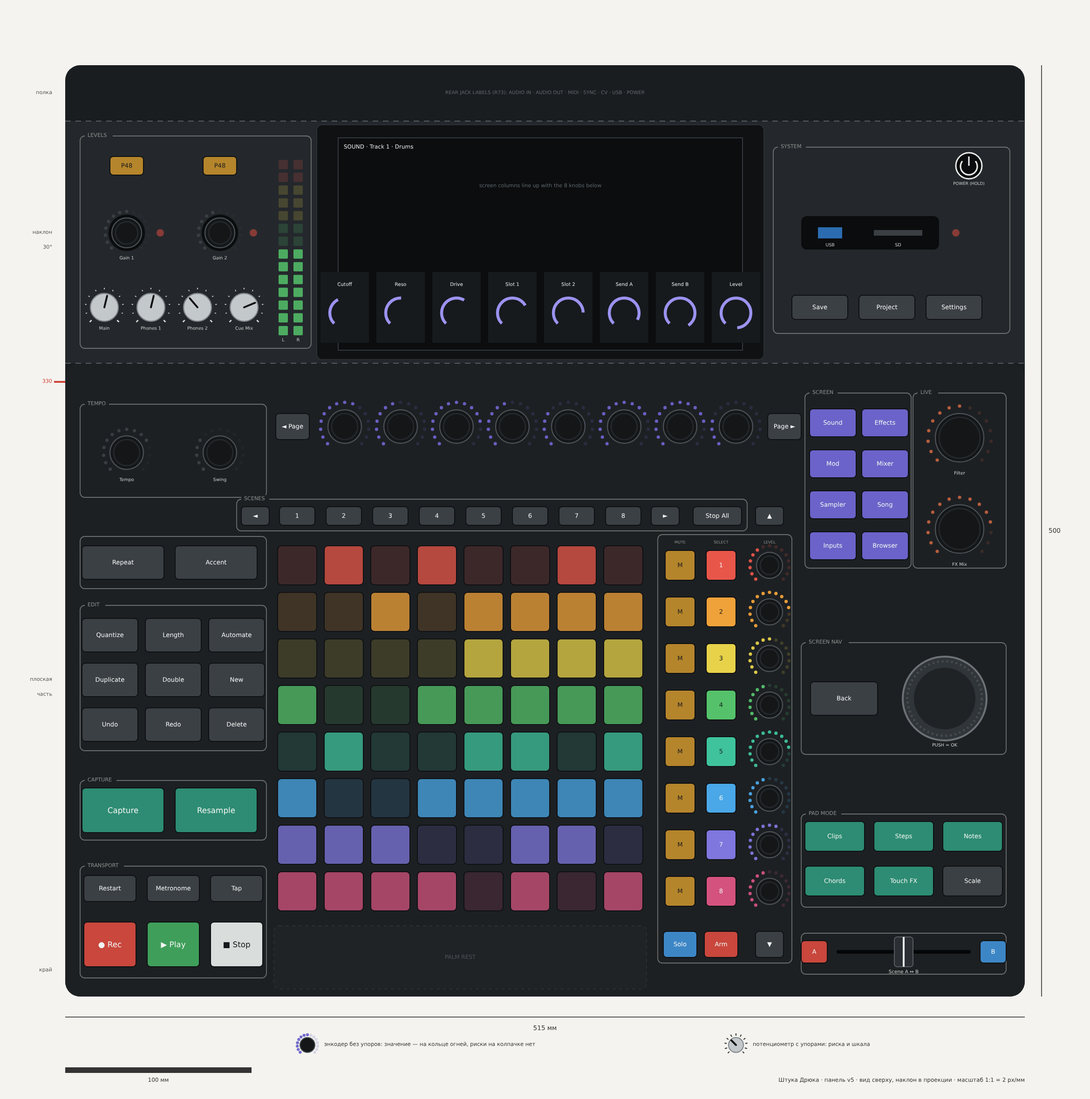
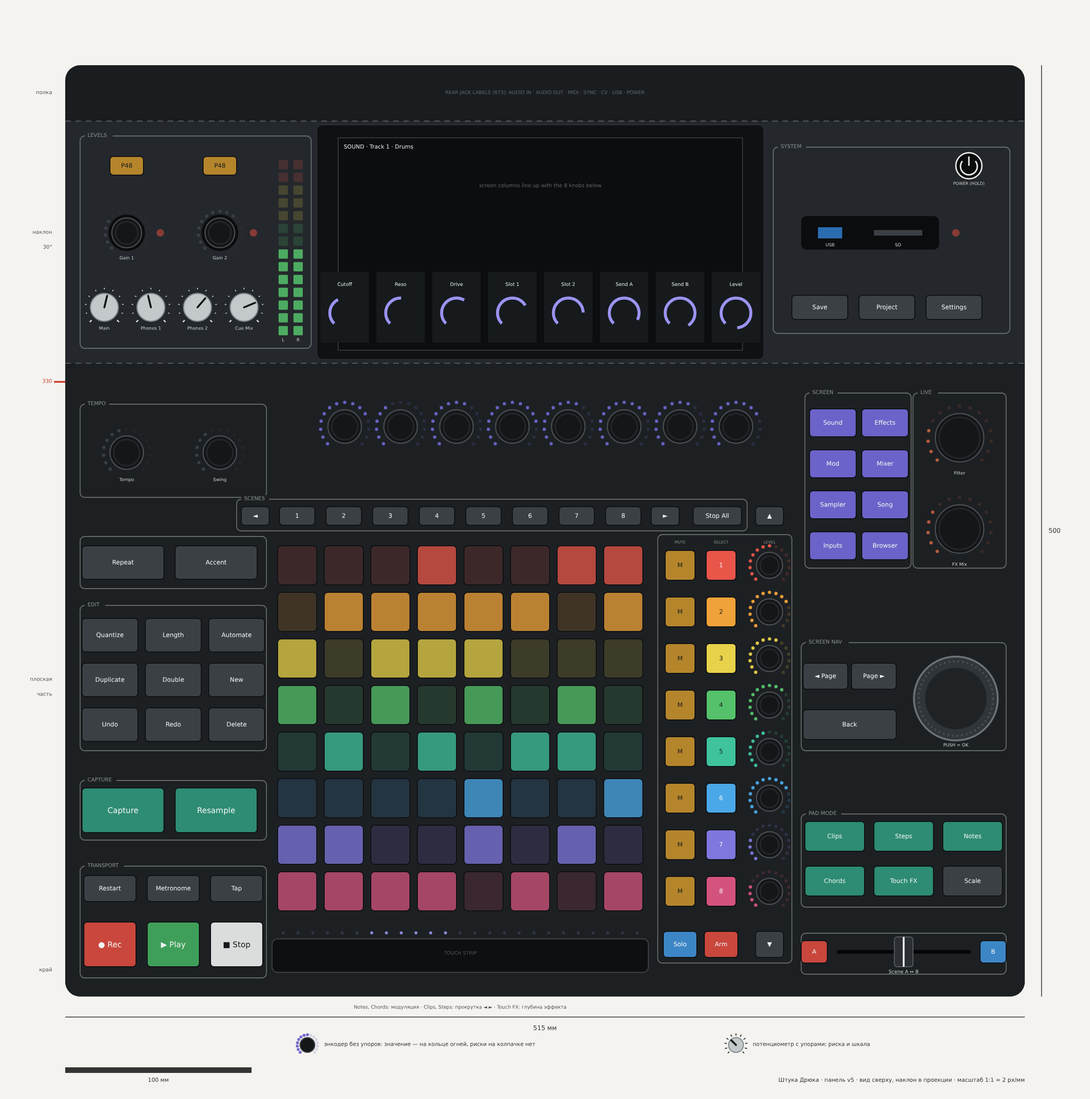
Panel v5: page buttons next to Back, touch strip under pads (R103-R105, P64-P65)
Claude-Session: https://claude.ai/code/session_01NJ9VLrgY2mHKQhwcNUndr6

diff --git a/mockup/layout/draw_v5.py b/mockup/layout/draw_v5.py
@@ -53,7 +53,7 @@ for hx, ht in ((330, "MUTE"), (352, "SELECT"), (378, "LEVEL")): t(X(hx), Y(244),
 frame(395, 12, 505, 34, "")
 frame(395, 48, 505, 98, "PAD MODE")
 frame(397, 230, 454, 324, "SCREEN")
-frame(395, 130, 505, 190, "SCREEN NAV")
+frame(395, 132, 505, 190, "SCREEN NAV")
 frame(455, 230, 505, 324, "LIVE")
 BG = "#24282c"
 frame(8, 348, 132, 462, "LEVELS")
@@ -61,7 +61,13 @@ frame(380, 356, 507, 456, "SYSTEM")
 
 for e in E:
     k, x, y, w, h = e["kind"], e["x"], e["y"], e["w"], e["h"]
-    if k == "zone":
+    if k == "strip":
+        a(f'<rect x="{X(x-w/2):.1f}" y="{Y(y+h/2):.1f}" width="{w*S:.1f}" height="{h*S:.1f}" rx="{3*S}" fill="#0d0f11" stroke="#3a3f44" stroke-width="1.2"/>')
+        for i in range(25):
+            lx = x - w / 2 + 6 + i * (w - 12) / 24
+            a(f'<circle cx="{X(lx):.1f}" cy="{Y(y+h/2+3.2):.1f}" r="{0.8*S:.1f}" fill="#9b93f0" fill-opacity="{0.9 if 6 <= i <= 11 else 0.18}"/>')
+        t(X(x), Y(y + 1), "TOUCH STRIP", 2.6, "#4d5358", weight=500)
+    elif k == "zone":
         a(f'<rect x="{X(x-w/2):.1f}" y="{Y(y+h/2):.1f}" width="{w*S:.1f}" height="{h*S:.1f}" rx="{3*S}" '
           f'fill="#202326" stroke="#2c3034" stroke-dasharray="3 4"/>')
         t(X(x), Y(y), "PALM REST", 3, "#4d5358")
@@ -165,6 +171,7 @@ t(X(-7), Y(170), "плоская", 2.8, "#555", "end"); t(X(-7), Y(162), "час
 t(X(-7), Y(410), "наклон", 2.8, "#555", "end"); t(X(-7), Y(402), "30°", 2.8, "#555", "end")
 t(X(-7), Y(485), "полка", 2.8, "#555", "end")
 t(X(-7), Y(14), "край", 2.8, "#555", "end")
+t(X(212), Y(0) + 12, "Notes, Chords: модуляция · Clips, Steps: прокрутка ◄ ► · Touch FX: глубина эффекта", 2.6, "#555")
 # legend: endless vs finite
 lx, ly = X(130), Y(0) + 52
 for i in range(15):

diff --git a/mockup/layout/layout_v5.py b/mockup/layout/layout_v5.py
@@ -59,7 +59,8 @@ other("meter", "Meter L", 117, 405, 5, 104, "Levels", label="L")
 other("meter", "Meter R", 125, 405, 5, 104, "Levels", label="R")
 
 # ---------------- CENTER ----------------
-other("zone", "Palm rest", 212, 21, 200, 34, "Palm", label="palm rest")
+# touch strip under the pads (R105): 2 x Bela Trill Bar (101 x 22 mm) side by side; palm rejection by touch size
+other("strip", "Touch strip", 212, 22, 202, 18, "Strip", label="MOD · SCROLL")
 for j in range(8):
     for i in range(8):
         other("pad", f"Pad {i+1}.{8-j}", 124.5 + 25 * i, 56.5 + 25 * j, 21, 21, "Grid", color=TRACK[7 - j])
@@ -89,10 +90,10 @@ btn("Scene A", 402, 24, 14, 12, "Live", label="A", color="red")
 other("fader", "Crossfader", 450, 24, 72, 4, "Live", label="Scene A ↔ B")
 btn("Scene B", 498, 24, 14, 12, "Live", label="B", color="blue")
 # screen navigation: wheel (push = OK) + Back; Page buttons at the ends of the screen-knob row (P64)
-other("wheel", "Wheel", 472, 160, 45, 45, "Navigation", label="")
-btn("Back", 418, 160, 36, 18, "Navigation", freq="часто")
-btn("Page ◄", 122, 306, 18, 14, "Navigation", label="◄ Page", freq="часто")
-btn("Page ►", 386, 306, 18, 14, "Navigation", label="Page ►", freq="часто")
+other("wheel", "Wheel", 478, 160, 45, 45, "Navigation", label="")
+btn("Back", 421, 146, 50, 16, "Navigation", freq="часто")
+btn("Page ◄", 408, 172, 24, 14, "Navigation", label="◄ Page", freq="часто")
+btn("Page ►", 434, 172, 24, 14, "Navigation", label="Page ►", freq="часто")
 # PAD MODE: what the pads do, 2 x 3 next to the grid
 gm = [["Chords", "Touch FX", "Scale"], ["Clips", "Steps", "Notes"]]  # front -> back (behind the crossfader)
 for r, row in enumerate(gm):

diff --git a/docs/ru/25_panel_v5_layout.md b/docs/ru/25_panel_v5_layout.md
@@ -25,16 +25,16 @@
 | Repeat, Accent | 8–108; 225–251 | Две крупные кнопки 44 × 18 мм | Repeat держат левой рукой, пока правая играет пэды (как Note Repeat у Maschine) |
 | Tempo | 8–108; 268–318 | Ручки Tempo, Swing | В конце левой колонки, у сгиба: ручки за кнопками (фильтр высоты, R91), задетый темп — неприятно |
 | Levels | наклон 8–132; 348–462 | Ближе всего Main, Phones 1, Phones 2, Cue Mix (потенциометры с упорами, шаг 25 мм); выше Gain 1, Gain 2 (утоплены) с индикаторами перегруза; дальше всего P48 (утоплены, удержание 1 с); индикаторы L / R мастера вдоль экрана | Пользователь: «громкости можно унести к гейнам» (R100). Все уровни — один блок в тупиковом углу; Main — угловая ручка, находится вслепую |
-| Palm rest | 112–312; 4–38 | Пусто | Место ладоней перед сеткой: здесь нечего задеть |
+| Touch strip | 111–313; 13–31 | Сенсорная полоса во всю ширину сетки: 2 × Bela Trill Bar (101 × 22 мм каждая), над ней ряд из 25 огней | **Решено (R105):** «под пэды — сенсорную полосу: в нотном режиме модуляция, иначе навигация вправо-влево». Ладонь отсеивается по размеру касания (P65) |
 | Сетка | 112–312; 44–244 | 8 × 8, шаг 25 мм, пэд 21 мм | Центр, обе руки. Дорожка 1 — дальняя строка, как в списке на экране |
 | Scenes | 92–366; 250–267 | ◄, сцены 1–8 над своими столбцами, ►, Stop All | **Решено (R101):** над сеткой. ◄ и ► на концах ряда листают сцены и шаги — каждая стрелка стоит у того края, куда листает (P64) |
 | Tracks | 318–392; 14–266 | У каждой строки: Mute (x 330), Select (x 352), ручка Level (x 378); ▲ над колонкой, ▼ под ней; спереди Solo и Arm | Mute ближе всего к сетке — его жмут в долю. ▲ и ▼ листают дорожки и стоят на концах колонки дорожек (P64). Solo и Arm без цели ничего не делают |
-| Ручки экрана | 113–395; 293–319 | 8 энкодеров, шаг 30 мм; ◄ Page слева от первой, Page ► справа от последней | Под столбцами экрана, один к одному; Page листает страницы этих ручек и стоит на концах их ряда (P64) |
+| Ручки экрана | 135–375; 293–319 | 8 энкодеров, шаг 30 мм | Под столбцами экрана, один к одному |
 | Crossfader | 395–505; 12–34 | Кроссфейдер с кнопками A и B | У передней кромки. Колпачок фейдера ≈ 12 мм высотой, поэтому рядом с ним только низкие кнопки, а колесо — в 10 см от него (замечание пользователя) |
 | Live | 455–505; 230–324 | Filter (y 300) и FX Mix (y 251) | **Решено (R102):** «ручки эффектов поднять на уровень с блоком Screen». Заодно высокие ручки ушли назад, в конец пути руки (R91) |
 | Pad mode | 395–505; 48–98 | 2 × 3: сзади Clips, Steps, Notes; спереди Chords, Touch FX, Scale | Низкие кнопки между фейдером и колесом; что делают пэды — рядом с сеткой |
 | Screen | 395–451; 230–324 | Сверху Sound, Effects; Mod, Mixer; Sampler, Song; снизу Inputs, Browser | Справа от ряда ручек экрана: «что крутят ручки» — рядом с ручками (как у Push 1) |
-| Screen nav | 395–505; 130–190 | Колесо ⌀ 45 мм (нажатие — OK) и Back | Навигация по экрану: колесо листает и выбирает, Back — шаг назад; сенсорный экран — для прямого выбора на экране (P64) |
+| Screen nav | 395–505; 132–190 | Колесо ⌀ 45 мм (нажатие — OK), Back, ◄ Page, Page ► | **Решено (R104):** Page — к Back («Page на концах ряда ручек — дичь»). Колесо в 10 см от фейдера |
 | System | наклон 380–507; 356–456 | Save, Project, Settings; гнездо USB-A и SD с индикатором записи; Power (утоплена, удержание 2 с) | Редкое — на наклоне, дальше от рук; Power над разъёмом питания сзади |
 
 ## 2.1 Как рисуем ручки (решено, R98)
@@ -47,6 +47,22 @@
 | Колесо (бесконечное) | Nav | Без риски и без лунки для пальца — только рифлёный обод |
 | Потенциометр с упорами (конечный) | Main, Phones 1, Phones 2, Cue Mix | Светлый металлический колпачок **с риской**, напечатанная шкала с упорами на концах, огней нет |
 | Кроссфейдер (конечный) | Live | Ползунок с упорами |
+
+## 2.3 Сенсорная полоса под пэдами (R105, P65)
+
+**Решено (R105):** пользователь: «под пэды можно добавить сенсорную полосу модуляции или как раз как навигацию вправо-влево в зависимости от выбранного режима».
+
+**Факт:** у Push 1 полоса тоже меняет работу по режиму: в Note с мелодическим инструментом — изгиб высоты или модуляция, у Drum Rack — выбор банка пэдов; переключение изгиб / модуляция — «держать Select и коснуться полосы» ([Ableton](https://www.ableton.com/en/live-manual/12/using-push-1/)). У нас без сочетаний: режим полосы следует за кнопкой режима пэдов, которая и так горит.
+
+**Факт:** Bela Trill Bar — 101 × 22 мм, до пяти касаний одновременно, сообщает положение и размер касания, I2C ([Bela](https://learn.bela.io/products/trill/about-trill/)); продаётся в рознице (Bela, Pimoroni), R28.
+
+| Режим пэдов | Что делает полоса | Огни над полосой |
+|---|---|---|
+| Notes, Chords | Модуляция (по желанию в Settings — изгиб высоты) | Столбик значения |
+| Clips, Steps | Прокрутка окна сетки вправо-влево свайпом; стрелки ◄ ► — по одному шагу | Где окно во всей песне |
+| Touch FX | Глубина эффекта (предложение) | Столбик глубины |
+
+**Вывод (P65):** две Trill Bar встык дают 202 мм — ровно ширина сетки. Полоса лежит там, где отдыхают ладони, поэтому прошивка принимает только узкое касание пальца; широкое — ладонь — игнорируется по размеру касания. Полосу ставим уже в первой версии: дёшево, из розницы, место есть (было R75: «не в первой версии, отдельным модулем»).
 
 ## 2.2 Почему стрелки не убираем совсем (вывод, P64)
 
@@ -88,8 +104,8 @@
 |---|---|---|
 | Ряд сцен под сеткой | Над сеткой | Подальше от ладоней; заголовок столбца сверху, как у Bitwig |
 | Filter, FX Mix спереди справа, колесо и Back у экрана | Filter и FX Mix — рядом с блоком Screen; Back, Page, стрелки и колесо — один блок навигации спереди | Решение пользователя (R102) |
-| Блок навигации: крест, Back, Page, колесо вместе | Стрелки — на краях сетки (◄ ► у ряда сцен, ▲ ▼ у колонки дорожек); Page — на концах ряда ручек экрана; колесо и Back — отдельный блок «экран» | Пользователь: блок «и логичен, и нет одновременно»; стрелки и экранная навигация делают разные работы (P64) |
-| Полоса под сенсорную ленту перед сеткой | Место для ладоней | Лента второй фазы — отдельным модулем (R75), место решим тогда |
+| Блок навигации: крест, Back, Page, колесо вместе | Стрелки — на краях сетки (◄ ► у ряда сцен, ▲ ▼ у колонки дорожек, R103, «пусть пока будет»); колесо, Back, Page — блок «экран» (R104) | Пользователь: блок «и логичен, и нет одновременно»; стрелки и экранная навигация делают разные работы (P64) |
+| Полоса под сенсорную ленту перед сеткой | Сенсорная полоса под пэдами (R105) | Предложение пользователя; функция зависит от режима пэдов |
 | Режимы экрана на наклоне справа | На плоской части справа от ручек экрана | Жмут часто — ближе к руке |
 | Громкости на плоской части (первый чертёж v5) | Все уровни вместе на наклоне слева (R100) | Решение пользователя |
 | Repeat, Accent справа | Слева, между правкой и темпом | Repeat держит левая рука, пока правая играет |

diff --git a/docs/ru/14_decisions_log.md b/docs/ru/14_decisions_log.md
@@ -1,6 +1,6 @@
 # Штука Дрюка: журнал решений
 
-*Единственное место, где видно, что уже решено. Если документ противоречит журналу, прав журнал. Обновляется при каждом новом решении. Последнее обновление: 31.10.2026, панель v5 в мм — ручки конечные и бесконечные различаются (R98), убраны Panic и Help (R99), громкости к гейнам (R100), сцены над сеткой (R101), ручки эффектов у Screen (R102), навигация переосмыслена (P64); документ 25.*
+*Единственное место, где видно, что уже решено. Если документ противоречит журналу, прав журнал. Обновляется при каждом новом решении. Последнее обновление: 31.10.2026, панель v5 в мм — ручки конечные и бесконечные различаются (R98), убраны Panic и Help (R99), громкости к гейнам (R100), сцены над сеткой (R101), стрелки на краях сетки (R103), Page к Back (R104), сенсорная полоса под пэдами (R105); документ 25, P64–P65.*
 
 ## 1. Решено пользователем
 
@@ -108,6 +108,9 @@
 | R100 | 31.10.2026 | Громкости (Main, Phones 1, Phones 2, Cue Mix) — вместе с гейнами на наклоне слева: «громкости можно унести к гейнам» | 25 |
 | R101 | 31.10.2026 | Ряд сцен — над сеткой: «над сеткой, оставляем, нравится» | 25 |
 | R102 | 31.10.2026 | Ручки Filter и FX Mix — «выше, на уровне с блоком Screen»; Page и Back — «ближе к кресту, вместе как блок навигации». Работы не смешиваются (R94): стрелки — окно сетки, Back, Page, колесо — экран; меняется только место | 25 |
+| R103 | 31.10.2026 | Стрелки — на краях сетки (◄ ► на концах ряда сцен, ▲ ▼ на концах колонки дорожек): «хитро, ладно, пусть пока будет» (предварительно, можно пересмотреть) | 25 (раздел 2.2) |
+| R104 | 31.10.2026 | Page ◄ ► — рядом с Back, в блоке навигации по экрану с колесом: «Page на концах ряда ручек — дичь, или двигай к Back» | 25 |
+| R105 | 31.10.2026 | Под пэдами — сенсорная полоса во всю ширину сетки; работа зависит от режима пэдов: в Notes — модуляция, в Clips и Steps — навигация вправо-влево. Уточняет R75 (место — под пэдами) | 25 (раздел 2.3) |
 
 ## 2. Предложено Claude, ждёт твоего «да» или «нет»
 
@@ -120,7 +123,8 @@
 | P60 | У каждой строки только Select и Mute; Solo и Arm — «действие + цель» (держать Solo и нажать Select строки). 77 кнопок вместо 91, колонка дорожек ≈ на 40 мм уже | R96 разрешает «действие + цель»; Mute жмут в долю, поэтому он отдельный у строки | 24 (раздел 5) |
 | P62 | Раскладка панели v5 в мм (скрипт `layout_v5.py`, чертёж): слева спереди назад транспорт, захват, правка, Repeat и Accent, Tempo и Swing; все уровни на наклоне слева; место для ладоней перед сеткой; ряд сцен над сеткой; у строки Mute, Select, Level; ручки экрана под столбцами экрана; справа спереди кроссфейдер, блок навигации (Back, Page, стрелки, колесо), режимы пэдов 2 × 3, режимы экрана и рядом Filter, FX Mix; System (Save, Project, Settings, USB и SD, Power) на наклоне справа. Плюс отсев ладони: касание сразу 2+ соседних ручек — повороты не принимаются. 75 кнопок | Частота (R90), фильтр высоты (R91), одна вещь — одна работа (R94), R98–R100; нормы шагов и досягаемости проверены скриптом | 25 |
 | P63 | Вместо Panic: Stop всегда отпускает все ноты, которые Штука включила на выходах MIDI и CV; на крайний случай — пункт «All Notes Off» в Settings | Зависшая нота на внешнем синте — редкость, кнопка ради неё не нужна (R99) | 24 (раздел 2.10) |
-| P64 | Навигация переосмыслена: стрелки — на краях сетки (◄ ► на концах ряда сцен, ▲ ▼ на концах колонки дорожек), Page ◄ ► — на концах ряда ручек экрана, колесо и Back — отдельный блок «экран» в середине правой колонки; режимы пэдов — между фейдером и колесом, колесо в 10 см от фейдера. Стрелки не убираем: они двигают окно сетки, а экран далеко и за ручками | Замечания пользователя: блок «логичен и нет одновременно», фейдер и большое колесо рядом — «жутко», «может, убрать стрелки, если экран сенсорный» | 25 (разделы 2, 2.2) |
+| P64 | Навигация по экрану — один блок в середине правой колонки: колесо (нажатие — OK), Back, ◄ Page, Page ►; колесо в 10 см от кроссфейдера, между ними низкие кнопки режимов пэдов; стрелки не убираем совсем — они двигают окно сетки (R103) | Замечания пользователя про блок навигации и про фейдер рядом с колесом | 25 (разделы 2, 2.2) |
+| P65 | Полоса — 2 × Bela Trill Bar встык (202 мм), над ней 25 огней; ладонь отсеивается по размеру касания; в Touch FX — глубина эффекта; изгиб высоты вместо модуляции — в Settings; ставим уже в первой версии | Розница (R28), дёшево, место есть; Trill сообщает размер касания | 25 (раздел 2.3) |
 
 (P5, P7 и P13 сняты: вместо них решения R15, R18 и R22. P37–P39 приняты как R29–R31, P32–P36 — как R32–R36, P42 — как R41, P43 — как R44, P46–P48 — как R82–R84, P44–P45 — как R85–R86, P53–P57 — как R94, P58 — как R96, P61 — как R97. 31.10.2026 пользователь принял разом все остальные предложения (P1–P4, P6, P8–P12, P14–P31, P40, P41) — они стали R46–R75. Где старое противоречит более новому решению, прав больший номер R: например, R32–R35 уточняют MIDI/CV из P14, R36 — вычислитель из P16, R39 — Bluetooth из P12, R40 — аккумулятор из P17.)
 
@@ -154,3 +158,4 @@
 | 08 (модель управления) | Четыре страницы-глагола | Две оси: режимы сетки и режимы экрана (R94) |
 | 09, раздел 6.3 | Главное колесо двигает окно сетки (нажать и крутить — по горизонтали) | Колесо — только экран, сетку двигают стрелки (R94) |
 | Журнал: R45, R46, R52, R60 | Страницы-глаголы; колесо по сетке; громкости спереди слева | R94 (гнёзда наушников остаются спереди, ручки громкости — в блоке «Уровни») |
+| Журнал: R75 | Сенсорная полоса не в первой версии, отдельным модулем спереди | R105 и P65: под пэдами, предлагаю уже в первой версии |

diff --git a/docs/ru/24_panel_buttons_list.md b/docs/ru/24_panel_buttons_list.md
@@ -124,6 +124,7 @@
 | FX Mix (ручка) | Глубина посылов на эффекты | часто |
 | Кроссфейдер | Смешать сцену A и сцену B | иногда |
 | Scene A, Scene B | Держать + сцена — назначить сторону кроссфейдера | иногда |
+| Сенсорная полоса под пэдами | Notes, Chords — модуляция; Clips, Steps — прокрутка вправо-влево; Touch FX — глубина эффекта (R105) | часто |
 
 ### 2.9 Уровни (блок «Уровни», R94)
 
